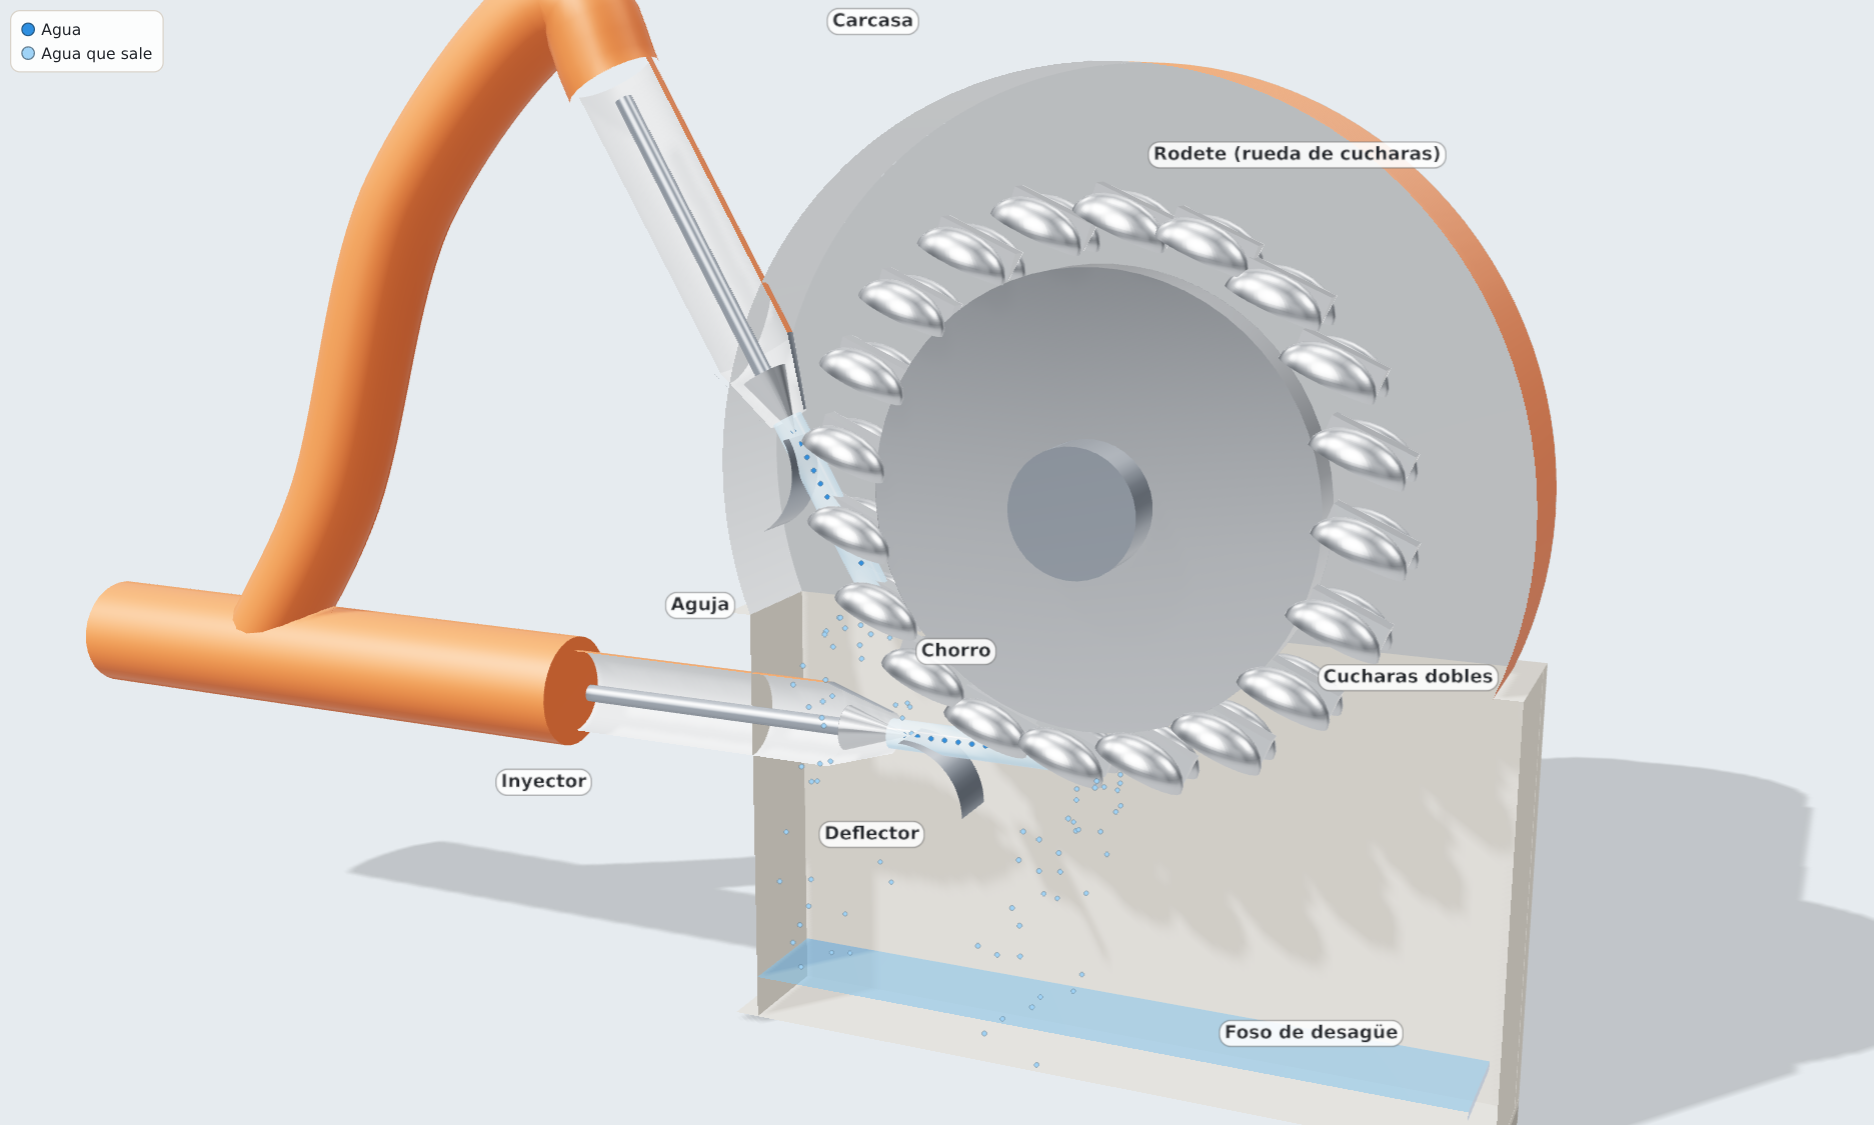
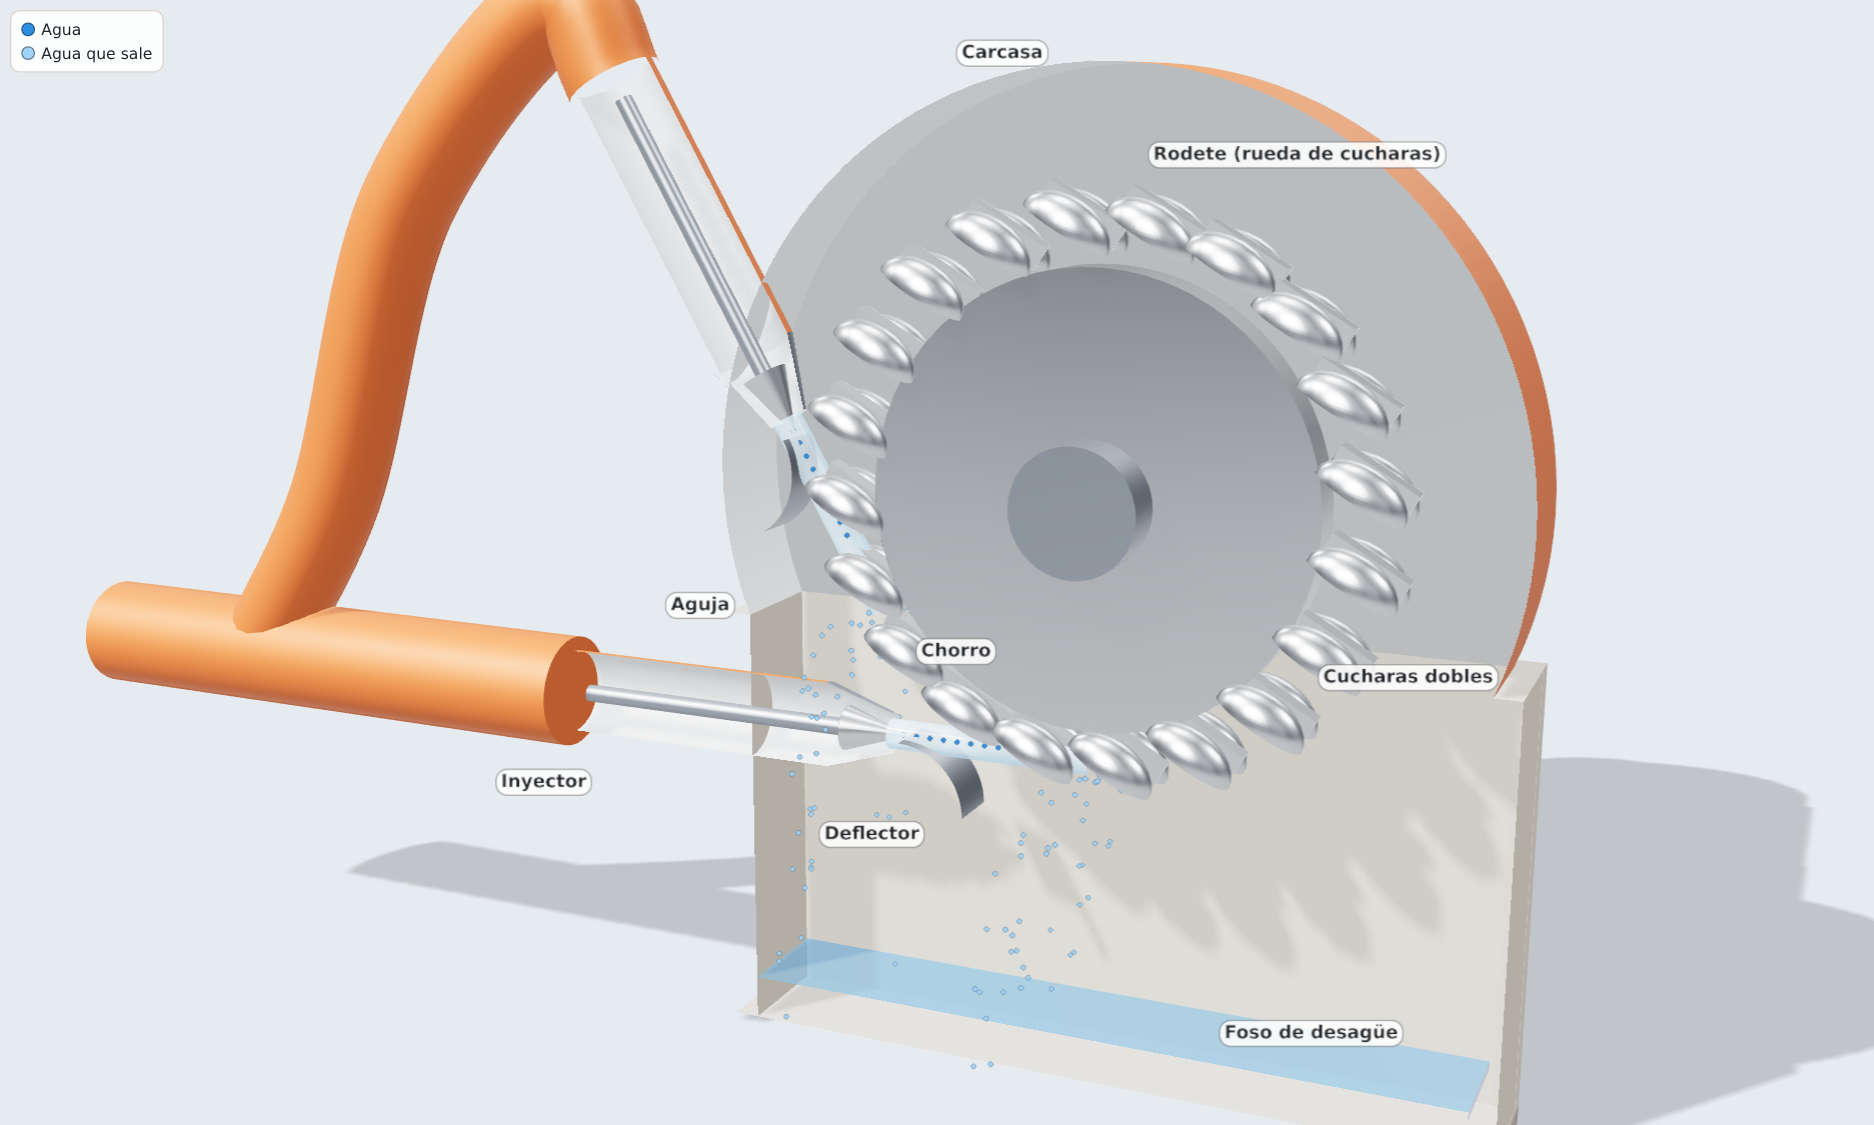
Turbinas (MATE-036, mejoras del repaso): deflector con la rueda parada en el panel, «agujas de los inyectores», rótulo de la carcasa
Claude-Session: https://claude.ai/code/session_01Mq6QR53jG3YpfS4owcjsrV

diff --git a/content/resources/sim_turbinas_hidraulicas.html b/content/resources/sim_turbinas_hidraulicas.html
@@ -512,7 +512,7 @@ var TURBINAS_CALC = (function () {
   var RHO = 1000, G = 9.81;
   var T = {
     pelton: { nombre: 'Pelton', clase: 'de acción', H: 400, Q: 8, etaMax: 0.90, rpm: 500, pares: 6,
-      rango: 'saltos grandes (más de 200 m) y caudales pequeños (hasta unos 10 m³/s)', regula: 'la aguja de los inyectores' },
+      rango: 'saltos grandes (más de 200 m) y caudales pequeños (hasta unos 10 m³/s)', regula: 'las agujas de los inyectores' },
     francis: { nombre: 'Francis', clase: 'de reacción', H: 100, Q: 60, etaMax: 0.93, rpm: 250, pares: 12,
       rango: 'saltos medios (de 40 a 600 m) y caudales de 2 a 200 m³/s', regula: 'los álabes directrices del distribuidor' },
     kaplan: { nombre: 'Kaplan', clase: 'de reacción', H: 12, Q: 150, etaMax: 0.92, rpm: 100, pares: 30,
@@ -1006,7 +1006,7 @@ if (typeof module !== 'undefined') module.exports = TURBINAS_CALC;
     Gr.rotulo('Aguja', V(-2.4, 0.15, 0.4), 2);
     Gr.rotulo('Deflector', V(-1.25, -1.15, 0.4), 2);
     Gr.rotulo('Chorro', V(-0.7, 0.05, 0.4), 1);
-    Gr.rotulo('Carcasa', V(-1.4, 3.6, 0.0), 1);
+    Gr.rotulo('Carcasa', V(-0.6, 3.42, 0.0), 1);         // pegado al borde de la tapa (centro de la rueda en y = 1, R = 2,45)
     Gr.rotulo('Foso de desagüe', V(1.3, -2.25, -0.3), 1);
     Gr.rotulo('Alternador', V(0, 2.9, -2.9), 3);
     Gr.vistas = { general: { centro: V(-1.6, 0.4, -1.2), az: 0.5, el: 0.26, dist: 20 }, entrada: { centro: V(-1.9, -0.1, 0), az: 0.25, el: 0.15, dist: 8.5 },
@@ -1132,27 +1132,32 @@ if (typeof module !== 'undefined') module.exports = TURBINAS_CALC;
   function resultados() {
     var r = C.calcular({ turbina: st.turbina, apertura: st.apertura, deflector: st.deflector }), T = C.T[st.turbina];
     $('apertura-o').textContent = Math.round(st.apertura * 100) + ' %';
-    $('que-regula').innerHTML = 'Al cambiar el caudal se mueven ' + T.regula + '. La turbina sigue girando a ' + T.rpm + ' rpm: lo que cambia es la potencia.';
+    var parada = st.turbina === 'pelton' && st.deflector;   // chorro desviado: el alternador se desconecta y la rueda frena
+    $('que-regula').innerHTML = parada
+      ? 'Con el chorro desviado no llega agua a la rueda: el alternador se desconecta de la red y la rueda frena hasta pararse. Mientras, las agujas pueden cerrar despacio, sin golpe de ariete.'
+      : 'Al cambiar el caudal se mueven ' + T.regula + '. La turbina sigue girando a ' + T.rpm + ' rpm: lo que cambia es la potencia.';
     $('como').innerHTML = COMO[st.turbina];
     var m = [metrica('Salto H', L(r.H, 0) + ' m'), metrica('Caudal Q', L(r.Q, r.Q < 10 ? 2 : 1) + ' m³/s'),
-      metrica('Rendimiento de la turbina η', L(r.eta * 100, 1) + ' %'), metrica('Potencia en el eje P', MW(r.P), 'dest'),
-      metrica('Giro', L(r.rpm, 0) + ' rpm'), metrica('Tipo', 'Turbina ' + T.clase)];
+      metrica('Rendimiento de la turbina η', parada ? '— (sin agua en la rueda)' : L(r.eta * 100, 1) + ' %'), metrica('Potencia en el eje P', MW(r.P), 'dest'),
+      metrica('Giro', parada ? '0 rpm (se para)' : L(r.rpm, 0) + ' rpm'), metrica('Tipo', 'Turbina ' + T.clase)];
     if (st.turbina === 'pelton') m.push(metrica('Velocidad del chorro', L(r.vChorro, 1) + ' m/s'), metrica('Diámetro de la rueda', L(r.D, 2) + ' m'));
     if (st.deflector) m.push(metrica('Deflector', 'chorro desviado: la rueda se para', 'aviso'));
     $('metricas').innerHTML = m.join('');
     $('cadena').innerHTML = 'Para ' + T.rango + '.';
     var c = ['<p><i>P</i><sub>t</sub> = <i>ρ</i>·<i>g</i>·<i>Q</i>·<i>H</i> = 1000 · 9,81 · ' + L(r.Q, 2) + ' · ' + L(r.H, 0) + ' = <b>' + MW(r.Pt) + '</b></p>',
-      '<p><i>P</i> = <i>η</i>·<i>P</i><sub>t</sub> = ' + L(r.eta, 3) + ' · ' + MW(r.Pt) + ' = <b>' + MW(r.eta * r.Pt) + '</b>' + (st.deflector ? ' (con el deflector no llega agua a la rueda: 0 MW)' : '') + '</p>'];
+      parada ? '<p>Con el deflector, el chorro no llega a la rueda: <i>P</i> = <b>0 MW</b>. Esa potencia del agua se pierde en el foso mientras las agujas cierran despacio.</p>'
+        : '<p><i>P</i> = <i>η</i>·<i>P</i><sub>t</sub> = ' + L(r.eta, 3) + ' · ' + MW(r.Pt) + ' = <b>' + MW(r.eta * r.Pt) + '</b></p>'];
     if (st.turbina === 'pelton') {
       c.push('<p>Velocidad del chorro: <i>v</i> = 0,98·√(2·<i>g</i>·<i>H</i>) = 0,98·√(2 · 9,81 · ' + L(r.H, 0) + ') = <b>' + L(r.vChorro, 1) + ' m/s</b></p>');
       c.push('<p>Las cucharas rinden más si van a la mitad de esa velocidad (' + L(r.vCuchara, 1) + ' m/s); a ' + r.rpm + ' rpm, eso pide una rueda de <i>D</i> = 60·<i>v</i><sub>cuchara</sub>/(π·<i>n</i>) = <b>' + L(r.D, 2) + ' m</b>.</p>');
     }
-    c.push('<p>Giro: el alternador tiene ' + r.pares + ' pares de polos; para dar 50 Hz tiene que girar a <i>n</i> = 60·<i>f</i>/<i>p</i> = 60 · 50 / ' + r.pares + ' = <b>' + L(r.rpm, 0) + ' rpm</b>.</p>');
+    c.push('<p>Giro: el alternador tiene ' + r.pares + ' pares de polos; para dar 50 Hz tiene que girar a <i>n</i> = 60·<i>f</i>/<i>p</i> = 60 · 50 / ' + r.pares + ' = <b>' + L(r.rpm, 0) + ' rpm</b>.' +
+      (parada ? ' Con el deflector, el alternador se desconecta de la red y la rueda frena hasta <b>0 rpm</b>.' : '') + '</p>');
     $('calculo').innerHTML = c.join('');
-    curva(r); estado(r);
+    curva(r, parada); estado(r);
     if (bucle) bucle.invalida();
   }
-  function curva(r) {
+  function curva(r, parada) {
     var W = 340, H = 190, x0 = 44, y0 = 150, x1 = 318, y1 = 20, sx = function (a) { return x0 + (x1 - x0) * a; }, sy = function (e) { return y0 - (y0 - y1) * (e - 0.4) / 0.6; };
     var o = ['<rect x="0" y="0" width="' + W + '" height="' + H + '" fill="#fff"/>'];
     for (var e = 0.4; e <= 1.001; e += 0.1) o.push('<line class="ej" x1="' + x0 + '" x2="' + x1 + '" y1="' + sy(e) + '" y2="' + sy(e) + '" stroke-opacity=".25"/><text class="et" x="' + (x0 - 4) + '" y="' + (sy(e) + 3) + '" text-anchor="end">' + Math.round(e * 100) + ' %</text>');
@@ -1164,9 +1169,9 @@ if (typeof module !== 'undefined') module.exports = TURBINAS_CALC;
       for (var q = 0.1; q <= 1.0001; q += 0.02) d.push((d.length ? 'L' : 'M') + sx(q).toFixed(1) + ',' + sy(Math.max(0.4, C.eta(t, q))).toFixed(1));
       o.push('<path d="' + d.join(' ') + '" fill="none" stroke="' + COL.curva[t] + '" stroke-width="' + (t === st.turbina ? 3 : 1.4) + '"' + (t === st.turbina ? '' : ' stroke-opacity=".75"') + '/>');
     });
-    o.push('<circle class="punto" cx="' + sx(r.a) + '" cy="' + sy(Math.max(0.4, r.eta)) + '" r="5"/>');
-    o.push('<desc>Rendimiento frente al caudal: la Pelton y la Kaplan mantienen un rendimiento alto a caudal parcial; la Francis lo pierde. Punto actual: ' +
-      NOMBRE[st.turbina] + ' al ' + Math.round(r.a * 100) + ' %, η = ' + L(r.eta * 100, 1) + ' %.</desc>');
+    if (!parada) o.push('<circle class="punto" cx="' + sx(r.a) + '" cy="' + sy(Math.max(0.4, r.eta)) + '" r="5"/>');
+    o.push('<desc>Rendimiento frente al caudal: la Pelton y la Kaplan mantienen un rendimiento alto a caudal parcial; la Francis lo pierde. ' +
+      (parada ? 'Pelton con el chorro desviado: sin agua en la rueda, no hay punto de funcionamiento.' : 'Punto actual: ' + NOMBRE[st.turbina] + ' al ' + Math.round(r.a * 100) + ' %, η = ' + L(r.eta * 100, 1) + ' %.') + '</desc>');
     $('curvaP').innerHTML = o.join('');
     $('ley-curva').innerHTML = todas.map(function (t) { return '<span style="color:' + COL.curva[t] + ';font-weight:700">― ' + NOMBRE[t] + '</span>'; }).join(' · ') +
       '. Rendimiento típico según el caudal.';
